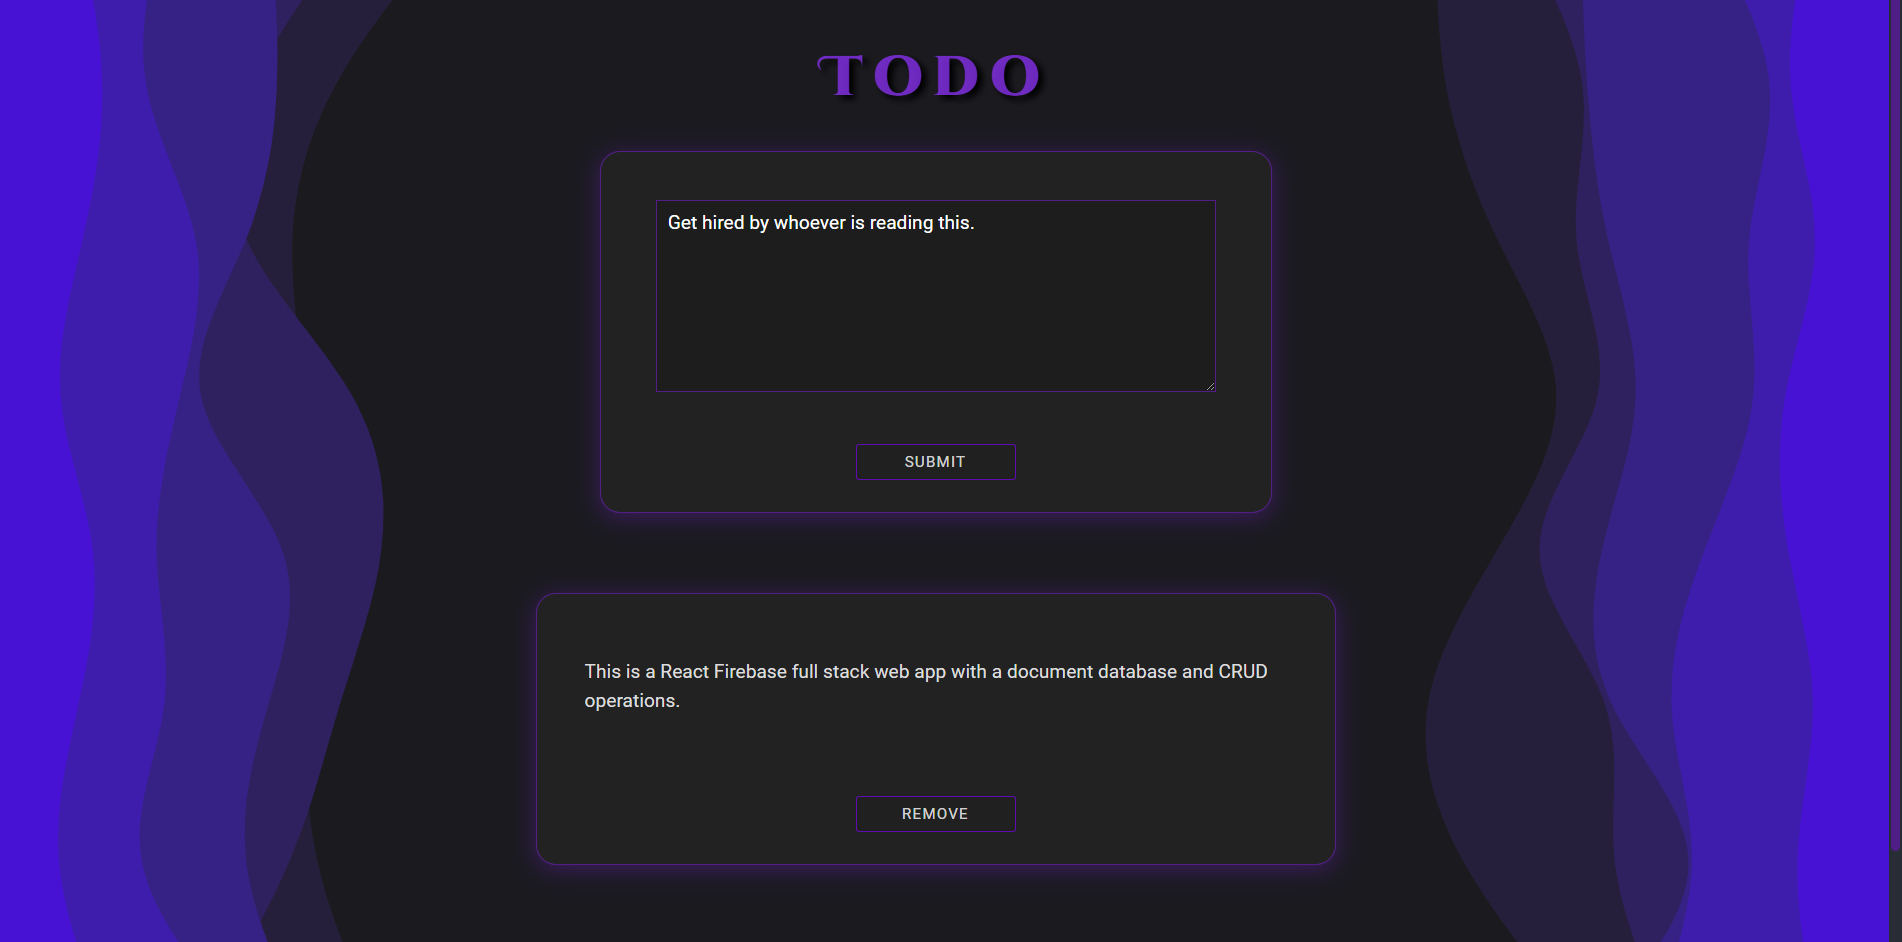
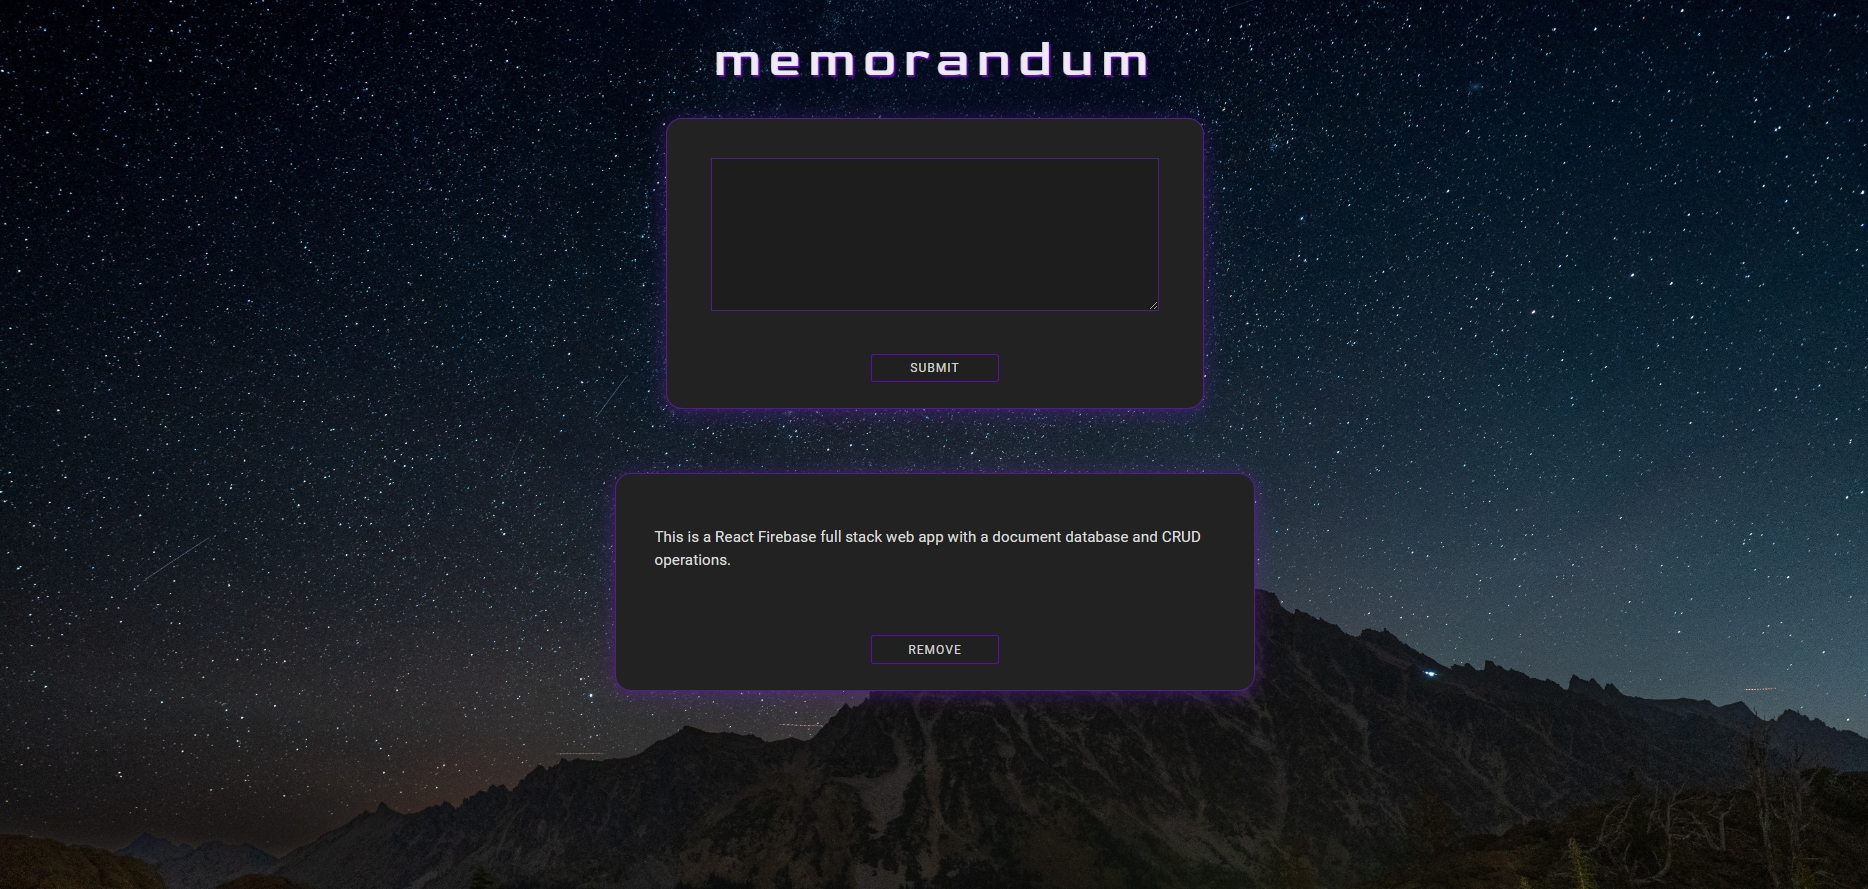
added memo app

diff --git a/pages/ImageCards.js b/pages/ImageCards.js
@@ -33,7 +33,7 @@ const imageCards = [
         image: shopifyhome
     },
     {
-        title: 'This is a React Firebase full stack web app with a document database and CRUD operations.',
+        title: "This is a React Firebase full stack web app with a document database and CRUD operations. This web app is for saving any text, notes, todo's, etc. ",
         image: todoFULL
     },
     {

diff --git a/styles/globals.css b/styles/globals.css
@@ -91,8 +91,9 @@ h1 {
 
 
 p {
-  display: flex;
   /* border: solid #282c34; */
+  font-size: 1.1rem;
+  display: flex;
   flex-direction: column;
   justify-content: center;
   align-items: center;
